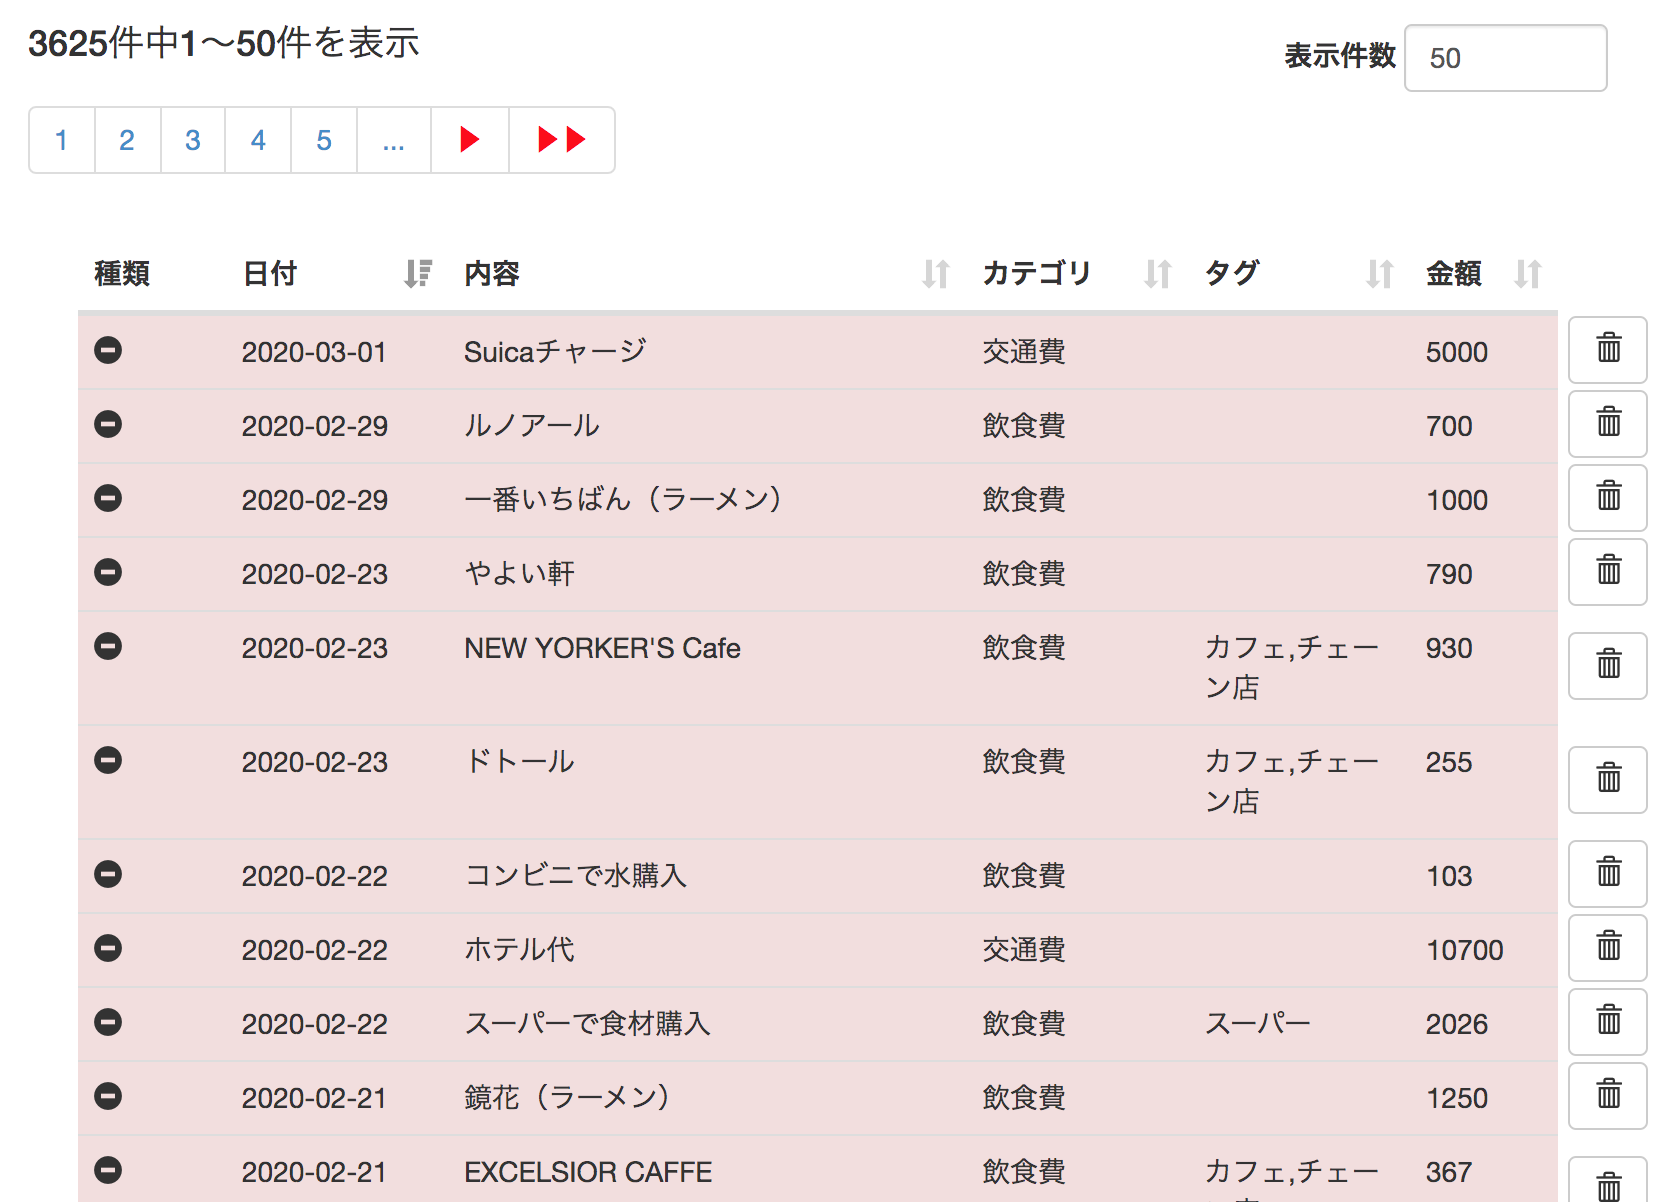
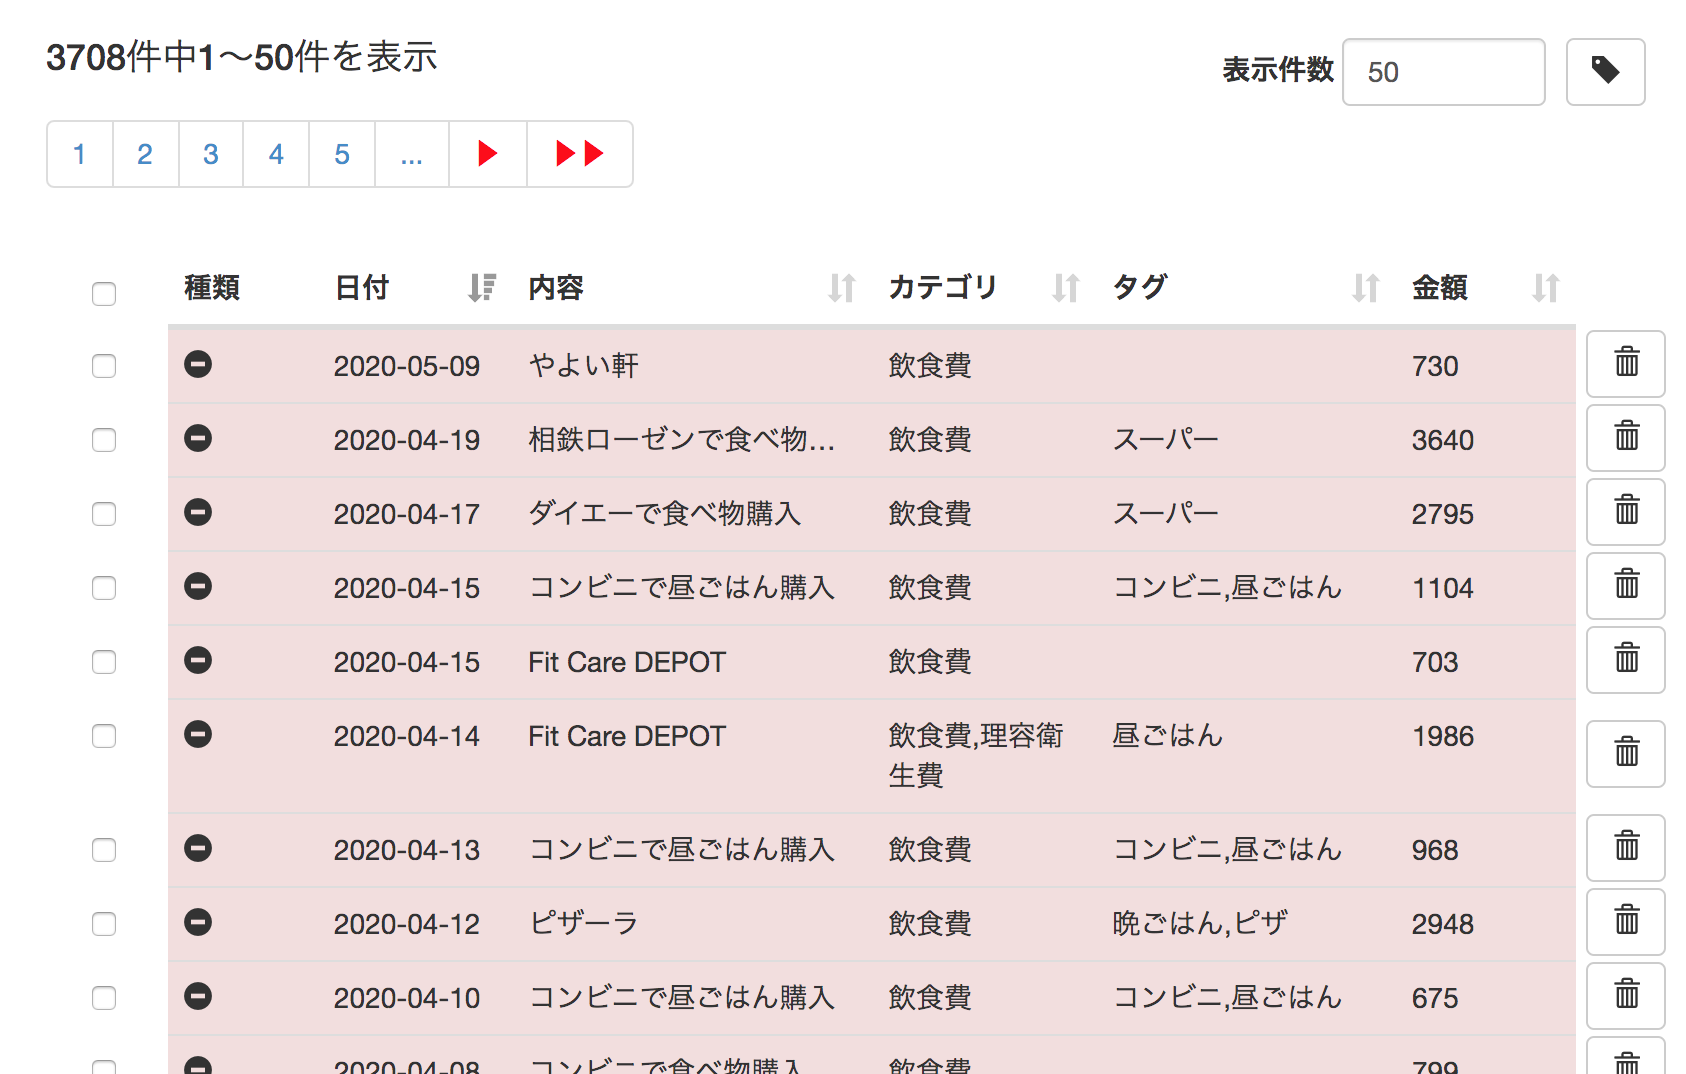
Algieba add checkbox to assign tags (#243)
* change payment and tag management view

* remove assign api

* modify umls

* update internal spec

* modify sequence

* modify class

* update images

* fix ui spec

* update images

* update CHANGELOG.md

diff --git a/payment_manager/algieba/internal.rst b/payment_manager/algieba/internal.rst
@@ -143,11 +143,11 @@ MVCモデルを利用する
 - :ref:`alg-int-seq-create-payment`
 - :ref:`alg-int-seq-index-payments`
 - :ref:`alg-int-seq-destroy-payment`
+- :ref:`alg-int-seq-assign-tag-to-payments`
 - :ref:`alg-int-seq-index-categories`
 - :ref:`alg-int-seq-create-dictionary`
 - :ref:`alg-int-seq-index-dictionaries`
 - :ref:`alg-int-seq-create-tag`
-- :ref:`alg-int-seq-assign-tag`
 - :ref:`alg-int-seq-index-tags`
 - :ref:`alg-int-seq-statistics`
 
@@ -233,6 +233,31 @@ MVCモデルを利用する
 4. 指定された収支情報を削除する
 5. 管理画面をリロードする
 
+.. _alg-int-seq-assign-tag-to-payments:
+
+タグを設定する
+^^^^^^^^^^^^^^
+
+*シーケンス図*
+
+.. uml:: umls/seq-assign-tag-to-payments.uml
+
+1. 利用者が収支管理画面でタグ設定ボタンを押下する
+2. 利用者がタグ名を選択して設定ボタンを押下する
+
+選択された収支情報の数だけ3〜8を繰り返す
+
+3. 収支情報を取得するAPIを実行する
+4. リクエストされた収支情報が存在するかチェックする
+5. 取得した収支情報のタグと追加するタグを設定して収支情報を更新するAPIを実行する
+6. リクエストされた収支情報が存在するかチェックする
+
+指定されたタグの数だけ7を繰り返す
+
+7. タグ情報を検索して無ければ作成する
+
+8. 収支情報を更新する
+
 .. _alg-int-seq-index-categories:
 
 カテゴリを検索する
@@ -305,28 +330,6 @@ MVCモデルを利用する
 
 4. 指定されたパラメーターからタグ情報を作成する
 5. タグ情報をデータベースに登録する
-
-.. _alg-int-seq-assign-tag:
-
-タグを設定する
-^^^^^^^^^^^^^^
-
-*シーケンス図*
-
-.. uml:: umls/seq-assign-tag.uml
-
-1. 利用者が設定する収支とタグ情報を入力して設定ボタンを押下する
-2. 管理画面がタグを設定するAPIを実行する
-3. 指定されたタグが存在するかチェックする
-
-指定されたタグが存在しない場合はエラーを表示して終了する
-
-4. 必須パラメーターが指定されているかチェックする
-
-必須パラメーターがない場合はエラーを表示して終了する
-
-5. 指定された条件を満たす収支情報を検索する
-6. 取得した収支情報にタグを設定する
 
 .. _alg-int-seq-index-tags:
 

diff --git a/payment_manager/algieba/external.rst b/payment_manager/algieba/external.rst
@@ -389,6 +389,21 @@
   - カテゴリ
   - タグ
 
+- テーブル上部のボタンを押下するとタグを設定するダイアログが表示される
+
+  .. image:: images/management_payment_table_assign_tag.png
+     :alt: タグ設定daiarogu
+     :scale: 50
+
+  - セレクトボックスには登録されているタグの一覧が設定されている
+  - 一覧からタグ名を選択してOKボタンを押下すると，チェックを付けた収支情報にタグが設定される
+  - Cancelボタンを押下するとダイアログが閉じる
+  - 1つもチェックを付けていない状態でボタンを押下すると以下のダイアログが表示される
+
+    .. image:: images/management_payment_table_assign_tag_error.png
+       :alt: エラーダイアログ
+       :scale: 30
+
 .. _alg-ext-ui-man-category:
 
 カテゴリ管理画面
@@ -540,35 +555,6 @@
 
   - 登録に成功した場合，画面が更新されて :ref:`alg-ext-ui-man-tag-table` に登録した :ref:`alg-ext-res-tag` が追加される
   - 登録に失敗した場合はエラーを表示する
-
-    - :ref:`alg-ext-ui-man-com-error` 参照
-
-設定フォーム
-''''''''''''
-
-.. image:: images/management_tag_assign.png
-   :alt: 設定フォーム
-   :scale: 50
-
-- 以下の入力フォームが表示されている
-
-  - 内容
-
-    - 必須項目
-    - 以下の条件を指定可能
-
-      - 「を含む」: 入力された文字列を含む内容に対してタグを設定する
-      - 「と一致する」: 入力された文字列と一致する内容に対してタグを設定する
-
-  - タグ
-
-    - 必須項目
-    - :ref:`alg-ext-ui-man-com-form-tag` 参照
-
-- 設定ボタンを押下するとフォームに入力した内容で条件を満たす :ref:`alg-ext-res-payment` にタグが登録される
-
-  - 設定に成功した場合は画面が更新される
-  - 設定に失敗した場合はエラーを表示する
 
     - :ref:`alg-ext-ui-man-com-error` 参照
 

diff --git a/payment_manager/algieba/external/api/tag.rst b/payment_manager/algieba/external/api/tag.rst
@@ -4,7 +4,6 @@
 本APIでは以下の機能を提供する
 
 - :ref:`alg-ext-api-tag-create`
-- :ref:`alg-ext-api-tag-assign`
 
 .. _alg-ext-api-tag-create:
 
@@ -57,57 +56,3 @@
         "tag_id": "2d44e728b365a0c8f91987c39117cc08",
         "name": "コンビニ"
       }
-
-.. _alg-ext-api-tag-assign:
-
-タグを設定する
-^^^^^^^^^^^^^^
-
-.. http:post:: /tags/[tag_id]/payments
-
-   - パスパラメーター
-
-     - tag_id
-
-       - :ref:`alg-ext-res-tag` のtag_id参照
-
-   - リクエストボディ
-
-     - 必須
-
-       - payment_ids (array[string])
-
-         - :ref:`alg-ext-res-payment` のpayment_id参照
-
-   - レスポンスボディ
-
-     - なし
-
-   - ステータスコード
-
-     - 成功時
-
-       - 200
-
-     - 失敗時
-
-       - 400
-
-   **リクエスト例**
-
-   .. sourcecode:: http
-
-      POST /tags/2d44e728b365a0c8f91987c39117cc08/payments HTTP/1.1
-      Content-Type: application/json
-
-      {
-        "payment_ids": [
-          "2d44e728b365a0c8f91987c39117cc08"
-        ]
-      }
-
-   **レスポンス例**
-
-   .. sourcecode:: http
-
-      HTTP/1.1 200 OK

diff --git a/CHANGELOG.md b/CHANGELOG.md
@@ -1,3 +1,6 @@
+# 2020/05/09
+- [Algieba] update version to 4.6.0
+
 # 2020/04/29
 - [Alterf] update version to 4.13.0
 
